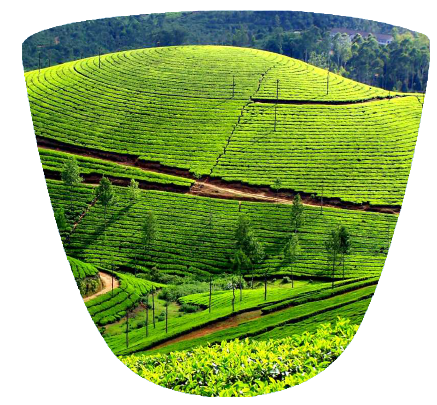
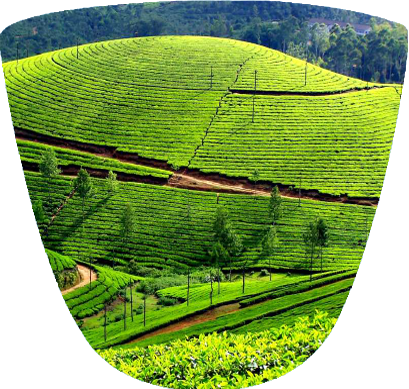
1. 更新圖片尺寸

diff --git a/src/sass/index.scss b/src/sass/index.scss
@@ -287,7 +287,7 @@ div.menu a {
 .vote-list li a .circle {
     position: relative;
     display: block;
-    width: 94%;
+    width: 100%;
     padding-top: 100%;
     overflow: hidden;
     background-image: url(..//images/index/ill_cup_gr.png);
@@ -299,7 +299,7 @@ div.menu a {
 .vote-list li a .circle-or {
     position: relative;
     display: block;
-    width: 94%;
+    width: 100%;
     padding-top: 100%;
     overflow: hidden;
     background-image: url(..//images/index/ill_cup_or.png);
@@ -311,7 +311,7 @@ div.menu a {
 .vote-list li a .circle-bl {
     position: relative;
     display: block;
-    width: 94%;
+    width: 100%;
     padding-top: 100%;
     overflow: hidden;
     background-image: url(..//images/index/ill_cup_bl.png);
@@ -341,7 +341,7 @@ div.menu a {
 .vote-list li a .txt {
     position: relative;
     padding: 15px 0 10px;
-    margin-top: -40px;
+    margin-top: 0px;
     color: #000;
     font-size: 1.125rem;
     font-weight: 500;
@@ -367,7 +367,7 @@ div.menu a {
 }
 
 .vote-list li a:hover .bg {
-    transform: scale(1);
+    transform: scale(0.95);
     background-image: url(../images/index/ill_cup.png);
     background-position: top;
     background-size: contain;
@@ -970,6 +970,8 @@ input[type='button'] {
     }
     .shop .shop-img-front {
         transform: translate(-50%, -100%);
+        bottom: -1628.9px;
+        z-index: 1;
     }
 
     .shop .shop-banner {
